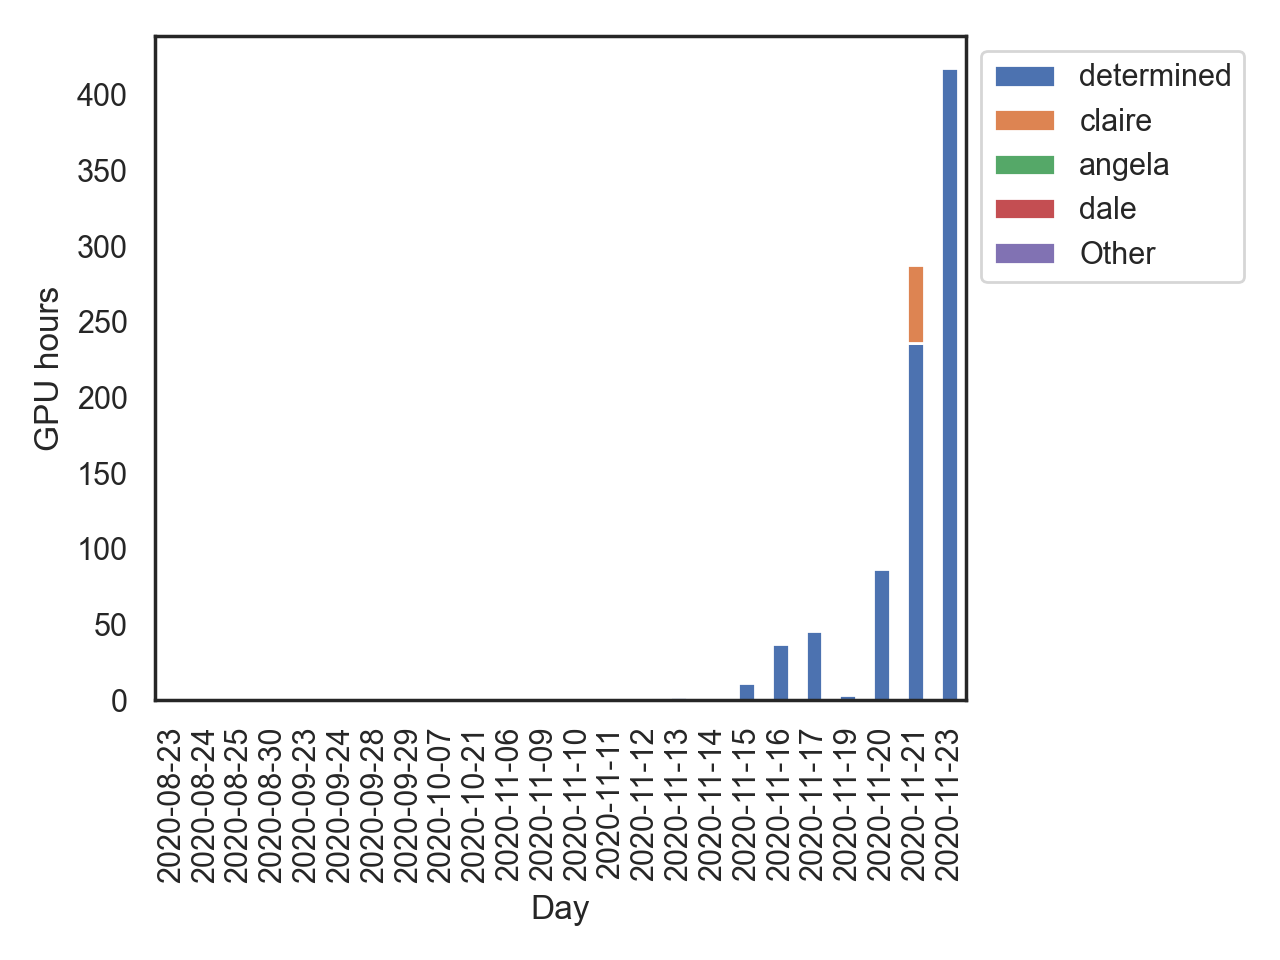
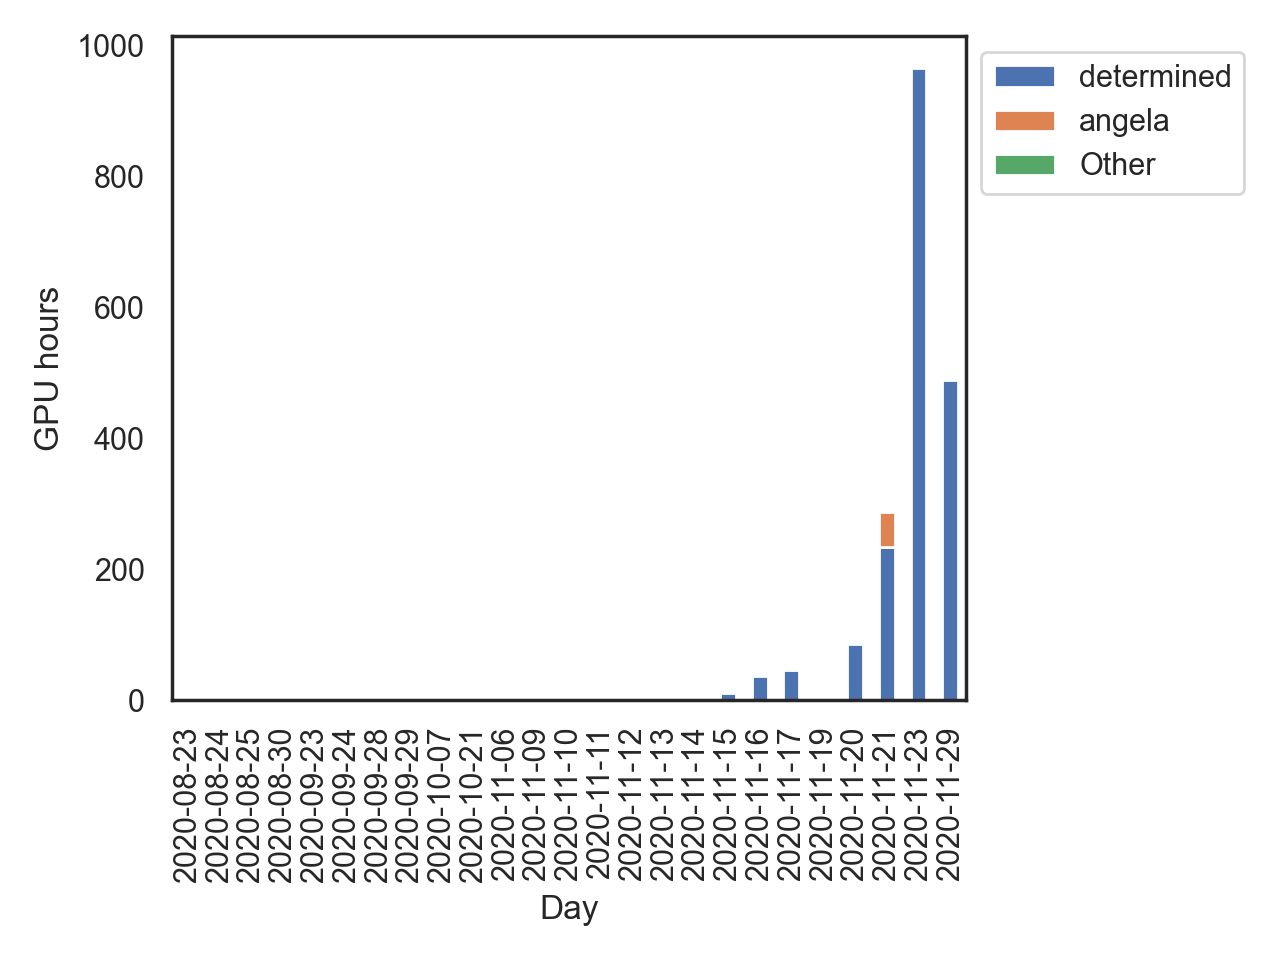
Add new plots

diff --git a/resource-utilization/plot.py b/resource-utilization/plot.py
@@ -67,6 +67,7 @@ def run(csv):
             user = vals[1]
             labels = vals[3]
             labels = process_labels(labels)
+            agent_types = vals[2]
             start_time = vals[5]
             time_elapsed = float(vals[6]) / 3600.
 
@@ -142,13 +143,13 @@ def run(csv):
 
     months = sorted(time_by_month.keys())
     months_ys = [time_by_month[month] for month in months]
-    #plot_bar(months, months_ys, "Month", "GPU hours")
+    plot_bar(months, months_ys, "Month", "GPU hours")
 
     # Utilization by Month
 
     days = sorted(time_by_day.keys())
     days_ys = [time_by_day[day] for day in days]
-    #plot_bar(days, days_ys, "Day", "GPU hours")
+    plot_bar(days, days_ys, "Day", "GPU hours")
 
     # Utilization by Month by User
     ys_by_stack = {}
@@ -158,7 +159,7 @@ def run(csv):
         for k in keys:
             ys.append(d_time_by_month[k])
         ys_by_stack[user] = ys
-    #plot_stacked_bar(months, ys_by_stack, "Month", "GPU hours")
+    plot_stacked_bar(months, ys_by_stack, "Month", "GPU hours")
 
     # Utilization by Day by User
     '''
@@ -175,7 +176,7 @@ def run(csv):
         for k in keys:
             ys.append(d_time_by_day[k])
         ys_by_stack[user] = ys
-    #plot_stacked_bar(days, ys_by_stack, "Day", "GPU hours")
+    plot_stacked_bar(days, ys_by_stack, "Day", "GPU hours")
 
     # Utilization by Month by Label
     ys_by_stack = {}
